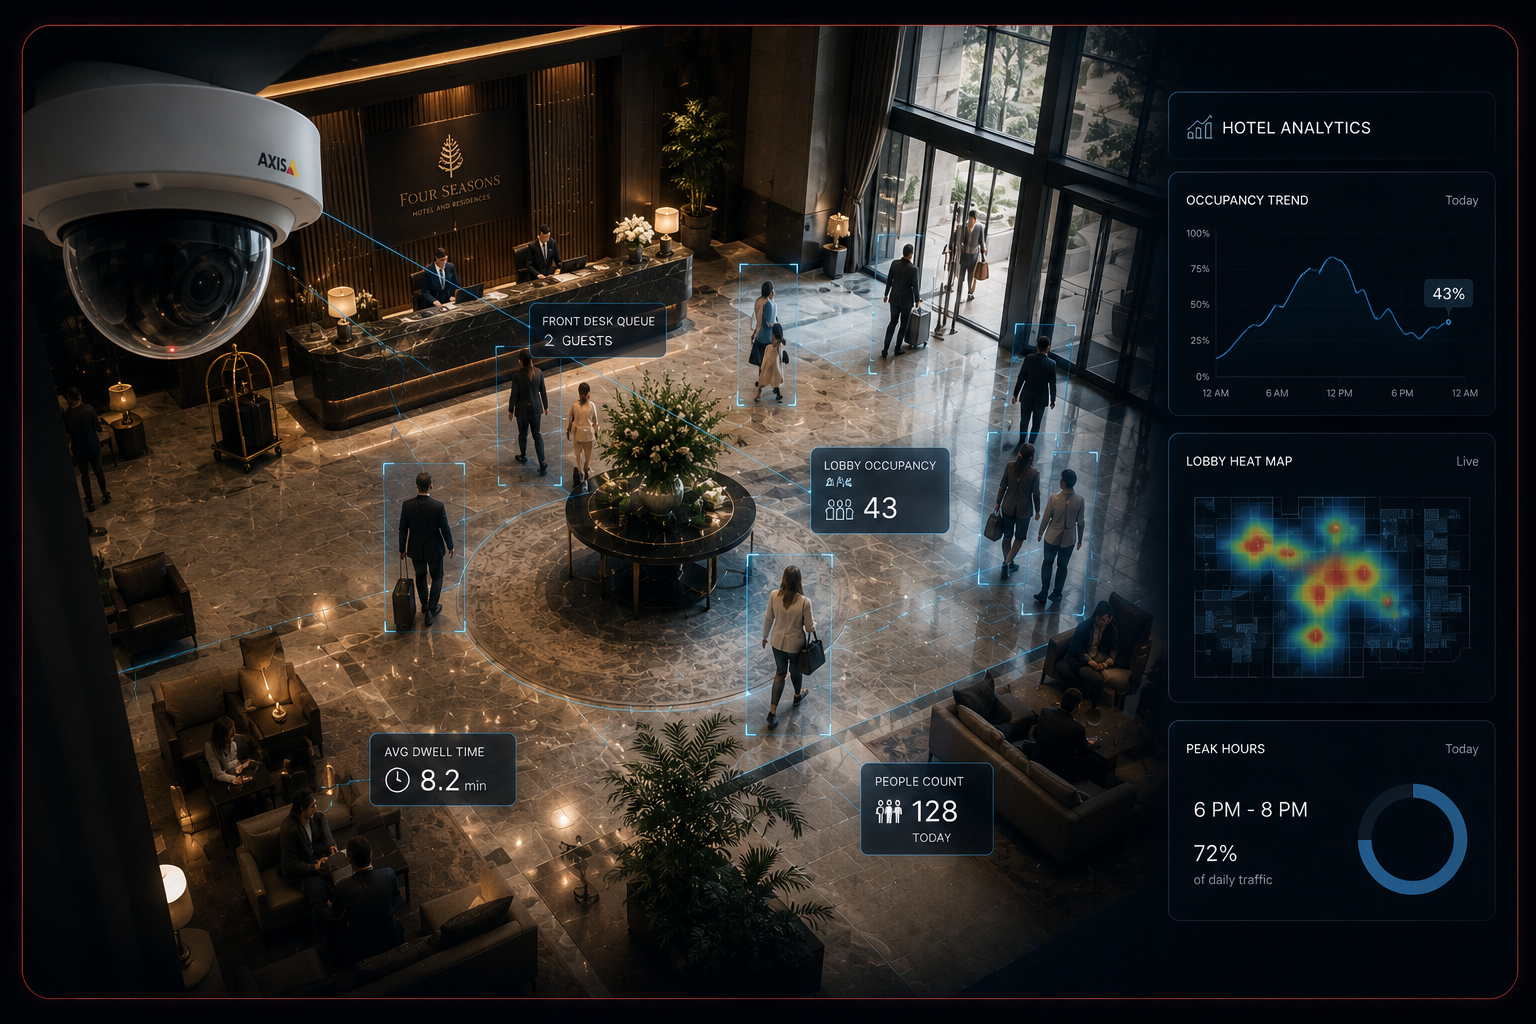
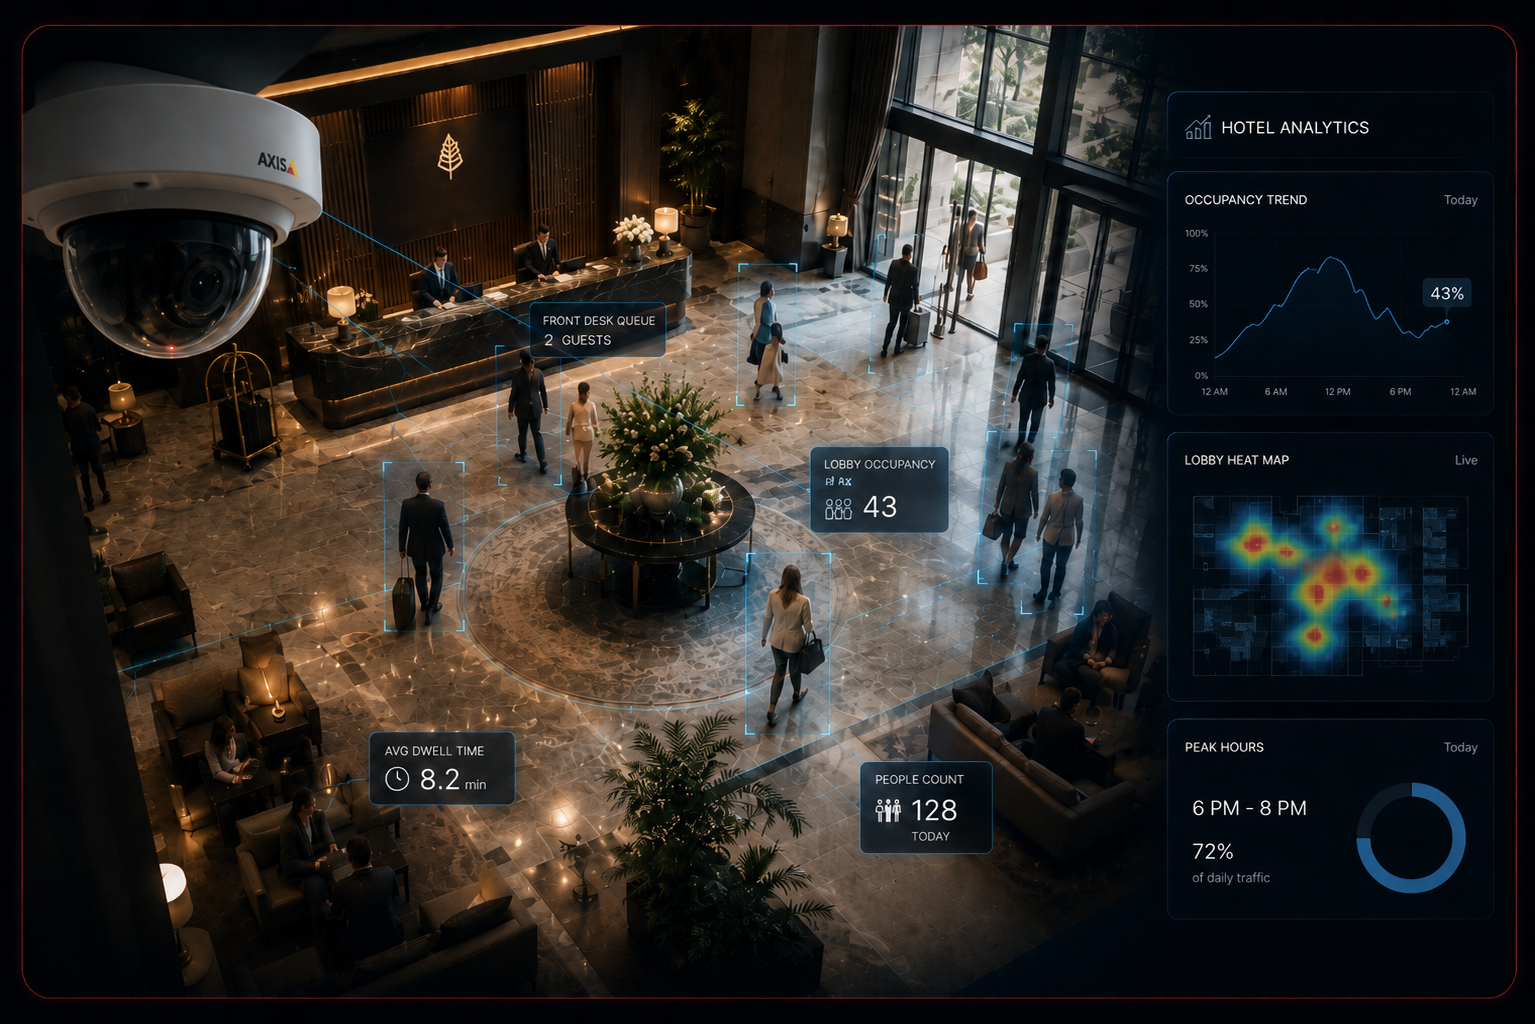
Refine portfolio UX and case study presentation

diff --git a/site/src/App.jsx b/site/src/App.jsx
@@ -46,7 +46,7 @@ const caseStudies = [
     title: "Transforming Distributed Video Systems into a Unified Platform",
     image: cs1Thumbnail,
     description:
-      "Modernized a fragmented video surveillance environment by consolidating multiple legacy systems into a centralized enterprise platform. The initiative improved operational consistency, simplified administration, and established a scalable foundation for future growth across geographically distributed facilities.",
+      "Multiple legacy systems. Limited visibility. Growing risk. See how a fragmented surveillance environment was transformed into a centralized enterprise platform.",
     focusAreas: [
       "Video management systems",
       "Enterprise platform consolidation",
@@ -58,7 +58,7 @@ const caseStudies = [
     title: "Operational Intelligence Through Video Analytics",
     image: cs2Thumbnail,
     description:
-      "Leveraged video analytics to transform surveillance data into actionable business intelligence. By measuring occupancy, dwell time, and movement patterns, the solution provided operational insights that improved visibility, decision-making, and guest experience within a luxury hospitality environment.",
+      "Valuable operational data was hiding in plain sight. Discover how video analytics turned everyday guest activity into actionable business intelligence.",
     focusAreas: [
       "Video analytics",
       "Operational intelligence",
@@ -68,10 +68,10 @@ const caseStudies = [
   {
     slug: "modern-gsoc",
     title:
-      "Modernizing the GSOC: Enhancing Situational Awareness Through Automated Video Workflows",
+      "Modernizing the GSOC: Automated Video Workflows for Situational Awareness",
     image: cs3Thumbnail,
     description:
-      "Designed automated workflows that transformed security events into actionable operator intelligence. By integrating alerts, video, mapping, and response tools into a unified operating picture, the project improved situational awareness and accelerated decision-making within the security operations center.",
+      "When seconds matter, operators need context—not more screens. Learn how event-driven workflows reduced information overload and enabled coordinated response.",
     focusAreas: [
       "GSOC operations",
       "Automated workflows",
@@ -167,7 +167,7 @@ function UnifiedVideoPlatformPage({ caseStudy }) {
     <section className="min-h-screen px-6 py-24 md:px-12">
       <article className="mx-auto max-w-4xl rounded-3xl border border-red-400/20 bg-[#111113]/82 p-6 shadow-[0_0_60px_rgba(248,113,113,0.12)] backdrop-blur-md md:p-10 lg:p-12">
         <Link
-          to="/"
+          to="/#case-studies"
           className={backLinkClass}
         >
           Back to Portfolio
@@ -177,7 +177,7 @@ function UnifiedVideoPlatformPage({ caseStudy }) {
           <h1 className="text-4xl font-bold leading-tight md:text-6xl">
             Transforming Distributed Video Systems into a Unified Platform
           </h1>
-          <p className="mt-6 text-xl leading-8 text-gray-300">
+          <p className="mt-6 text-xl italic leading-8 text-gray-300">
             How fragmented surveillance deployments can evolve into a
             centralized enterprise video platform.
           </p>
@@ -188,7 +188,7 @@ function UnifiedVideoPlatformPage({ caseStudy }) {
             <h2 className="text-3xl font-bold text-white">Executive Summary</h2>
             <div className="mt-5 space-y-5">
               <p>
-                Imagine you&apos;re responsible for physical security across a
+                You&apos;re a senior security executive, responsible for physical security across a
                 global manufacturing enterprise. Over the years, acquisitions,
                 regional preferences, and independent projects have left you
                 with a patchwork of surveillance systems: different
@@ -201,7 +201,7 @@ function UnifiedVideoPlatformPage({ caseStudy }) {
                 critical enterprise infrastructure.
               </p>
               <p>
-                At the same time, cybersecurity teams are increasing scrutiny.
+                At the same time, your cybersecurity department is increasing scrutiny.
                 Unsupported operating systems, aging hardware, inconsistent
                 patching practices, and limited visibility into system health
                 create growing operational and security risks. Maintaining the
@@ -335,7 +335,7 @@ function UnifiedVideoPlatformPage({ caseStudy }) {
           </section>
         </div>
 
-        <Link to="/" className={`${backLinkClass} mt-12`}>
+        <Link to="/#case-studies" className={`${backLinkClass} mt-12`}>
           Back to Portfolio
         </Link>
       </article>
@@ -347,7 +347,7 @@ function VideoAnalyticsPage({ caseStudy }) {
   return (
     <section className="min-h-screen px-6 py-24 md:px-12">
       <article className="mx-auto max-w-4xl rounded-3xl border border-red-400/20 bg-[#111113]/82 p-6 shadow-[0_0_60px_rgba(248,113,113,0.12)] backdrop-blur-md md:p-10 lg:p-12">
-        <Link to="/" className={backLinkClass}>
+        <Link to="/#case-studies" className={backLinkClass}>
           Back to Portfolio
         </Link>
 
@@ -355,7 +355,7 @@ function VideoAnalyticsPage({ caseStudy }) {
           <h1 className="text-4xl font-bold leading-tight md:text-6xl">
             Operational Intelligence Through Video Analytics
           </h1>
-          <p className="mt-6 text-xl leading-8 text-gray-300">
+          <p className="mt-6 text-xl italic leading-8 text-gray-300">
             Using existing surveillance infrastructure to generate business
             insights in a luxury hospitality environment.
           </p>
@@ -519,7 +519,7 @@ function VideoAnalyticsPage({ caseStudy }) {
           </section>
         </div>
 
-        <Link to="/" className={`${backLinkClass} mt-12`}>
+        <Link to="/#case-studies" className={`${backLinkClass} mt-12`}>
           Back to Portfolio
         </Link>
       </article>
@@ -531,16 +531,16 @@ function ModernGsocPage() {
   return (
     <section className="min-h-screen px-6 py-24 md:px-12">
       <article className="mx-auto max-w-4xl rounded-3xl border border-red-400/20 bg-[#111113]/82 p-6 shadow-[0_0_60px_rgba(248,113,113,0.12)] backdrop-blur-md md:p-10 lg:p-12">
-        <Link to="/" className={backLinkClass}>
+        <Link to="/#case-studies" className={backLinkClass}>
           Back to Portfolio
         </Link>
 
         <header className="mt-12">
           <h1 className="text-4xl font-bold leading-tight md:text-6xl">
-            Modernizing the GSOC: Enhancing Situational Awareness Through
-            Automated Video Workflows
+            Modernizing the GSOC: Automated Video Workflows for Situational
+            Awareness
           </h1>
-          <p className="mt-6 text-xl leading-8 text-gray-300">
+          <p className="mt-6 text-xl italic leading-8 text-gray-300">
             Using event-driven workflows to bring the right operational context
             to security operators when seconds matter.
           </p>
@@ -698,7 +698,7 @@ function ModernGsocPage() {
           </section>
         </div>
 
-        <Link to="/" className={`${backLinkClass} mt-12`}>
+        <Link to="/#case-studies" className={`${backLinkClass} mt-12`}>
           Back to Portfolio
         </Link>
       </article>
@@ -749,7 +749,7 @@ function CaseStudyPage() {
     <section className="min-h-screen px-6 py-24 md:px-12">
       <div className="mx-auto max-w-6xl rounded-3xl border border-red-400/20 bg-[#111113]/82 p-6 shadow-[0_0_60px_rgba(248,113,113,0.12)] backdrop-blur-md md:p-10 lg:p-12">
         <Link
-          to="/"
+          to="/#case-studies"
           className={backLinkClass}
         >
           Back to Portfolio
@@ -804,7 +804,7 @@ function CaseStudyPage() {
           </article>
         </div>
 
-        <Link to="/" className={`${backLinkClass} mt-12`}>
+        <Link to="/#case-studies" className={`${backLinkClass} mt-12`}>
           Back to Portfolio
         </Link>
       </div>
@@ -943,8 +943,11 @@ function App() {
           </div>
         </section>
 
-        <section id="case-studies" className="min-h-screen scroll-mt-24 px-6 py-28 md:px-12">
-          <h2 className="text-center text-5xl font-bold md:text-6xl">
+        <section className="min-h-screen px-6 py-28 md:px-12">
+          <h2
+            id="case-studies"
+            className="scroll-mt-24 text-center text-5xl font-bold md:text-6xl"
+          >
             Case Studies
             <span className="mx-auto mt-1 block h-3 w-52 bg-red-400" />
           </h2>
